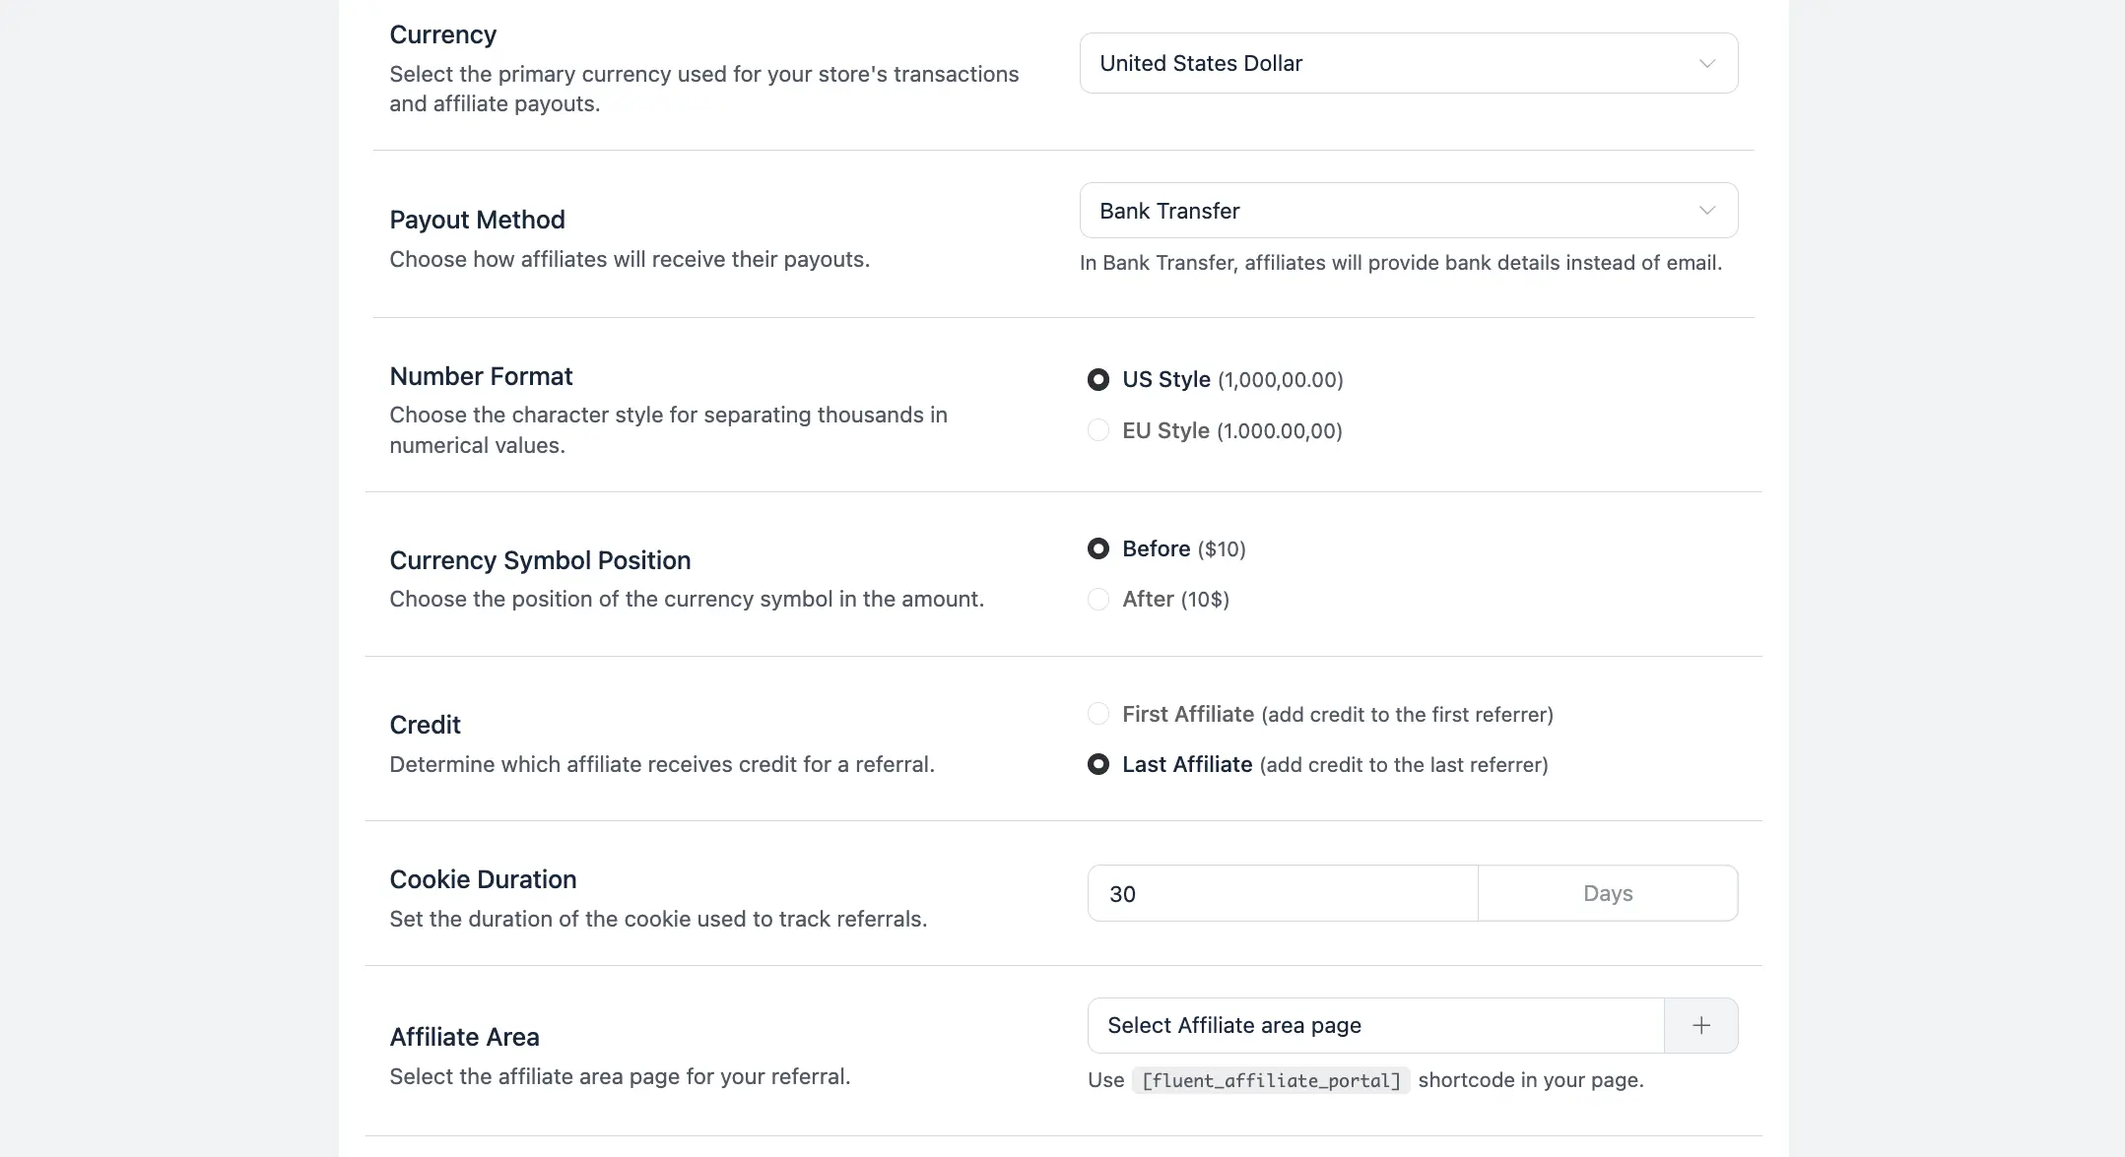
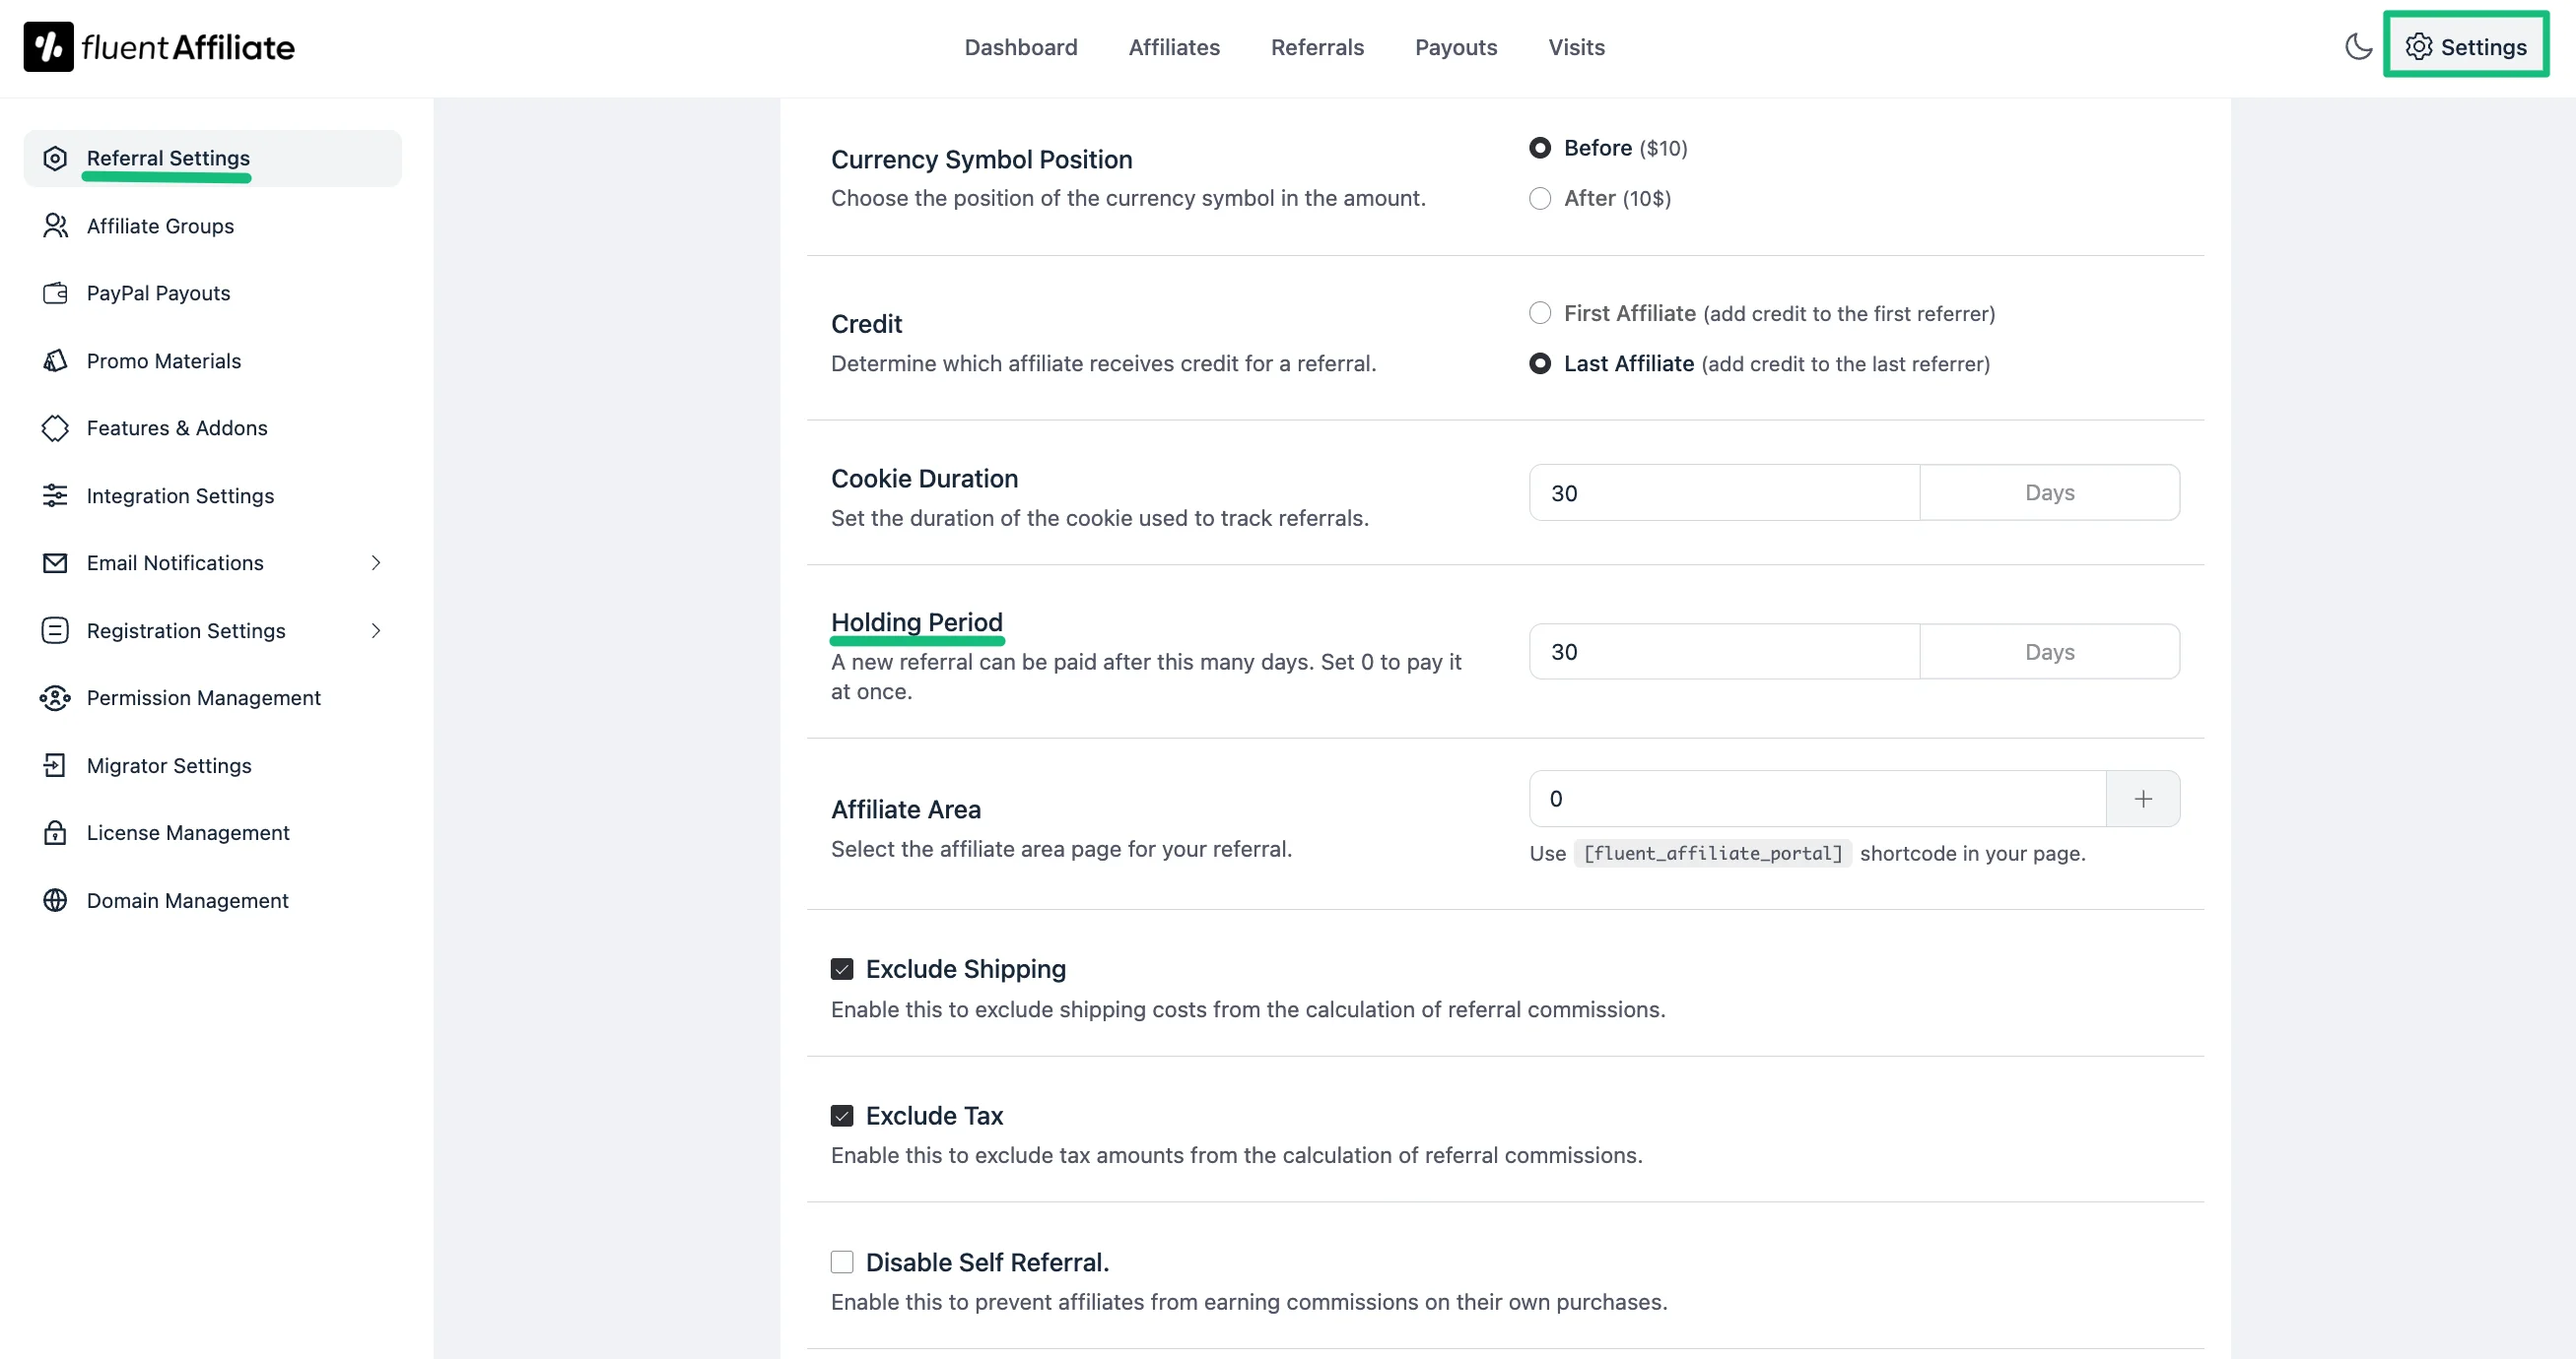
update referral settings doc

diff --git a/guide/settings-and-customization/referral-settings.md b/guide/settings-and-customization/referral-settings.md
@@ -42,6 +42,17 @@ Define the logic for how affiliates are credited for referrals and how long they
 
 * **Credit:** Determine which affiliate receives credit for a referral. You can credit the **First Affiliate** or the **Last Affiliate**.
 * **Cookie Duration:** Set the duration of the cookie used to track referrals, specified in days. The example shows a duration of 30 days.
+* **Holding Period:** Set how many days a new referral must wait before it can be paid. You can enter any value from 0 to 365 days. Set it to **0** if you want to pay new referrals right away.
+
+#### How the Holding Period Works
+
+A holding period gives you time to catch refunds and cancelled orders before you pay a commission. For example, if your store allows refunds within 30 days, you can set the holding period to 30 days.
+
+Here's what happens when a holding period is set:
+
+* A new unpaid referral stays on hold until the holding period ends. You'll see an **On hold until** date under its status on the Referrals page, and the affiliate sees the same date in their affiliate portal.
+* When you create a payout, the referrals that are still on hold are left out. The review page tells you how many referrals are on hold and their total amount. Don't worry, they stay unpaid, so a later payout can pay them.
+* If you need to pay the referrals that are on hold, check the **Ignore the holding period** option when you create the payout. To learn more, check out the [Payout Management](/guide/admin-portal/payout-management) guide.
 
 ![Recurring Settings](/images/settings-and-customization/referral/recurring-commission-settings.webp)
 
